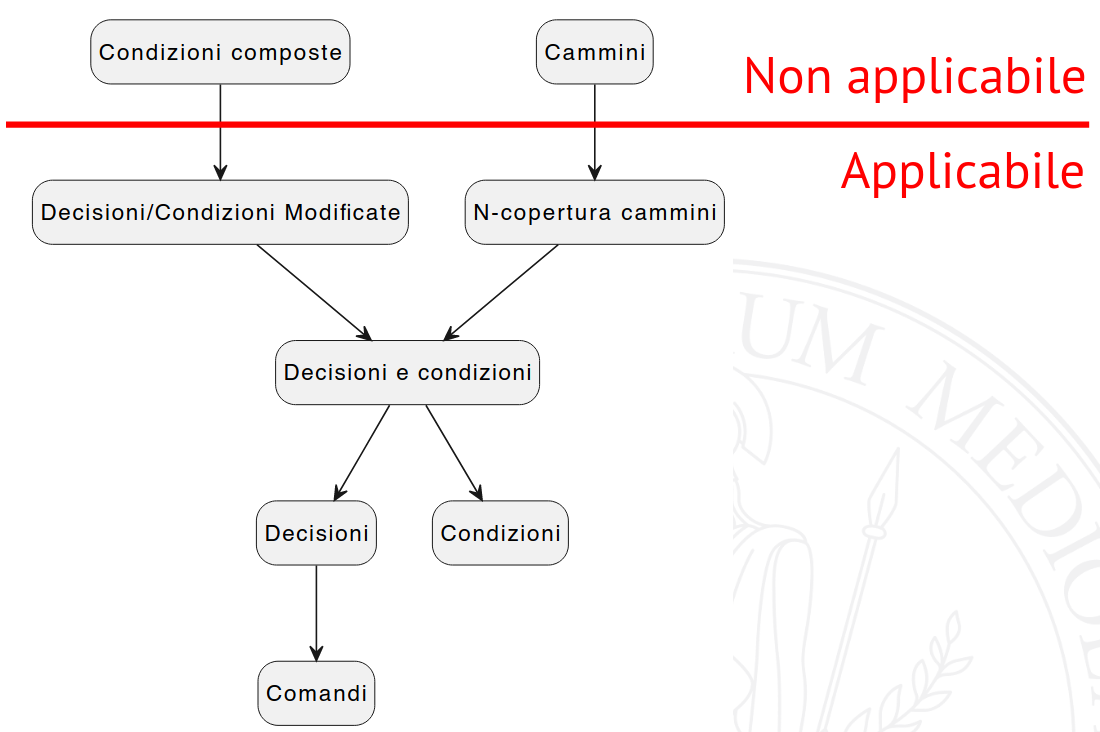
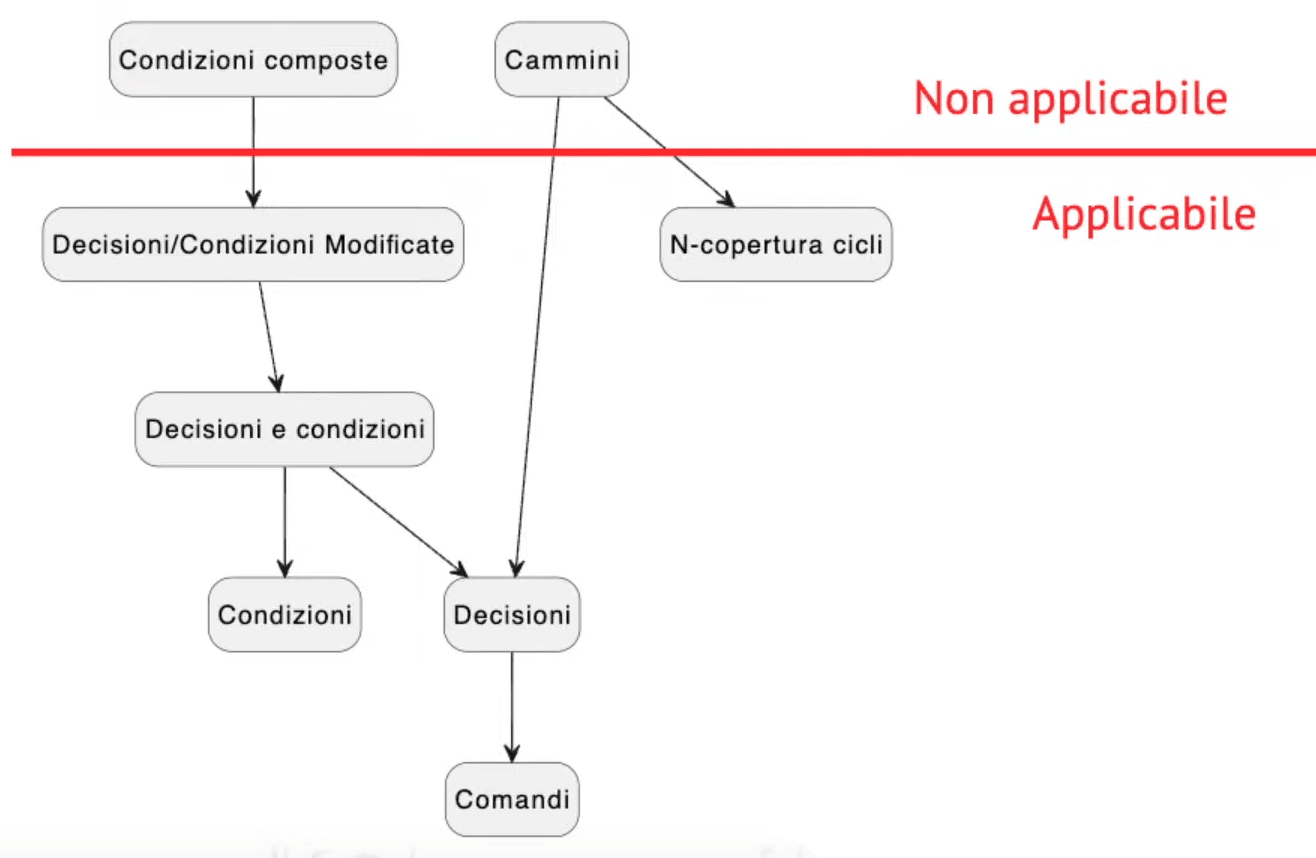
fix lezione 18, coperture

diff --git a/src/12_testing/02_proprieta.md b/src/12_testing/02_proprieta.md
@@ -50,7 +50,7 @@ Tuttavia, lo stesso non si può dire di un qualunque programma \\(P\\) in quanto
 L'obiettivo sarebbe quindi quello di trovare un _criterio valido e affidabile_ sempre.
 Tuttavia ciò è purtroppo impossibile in quanto un criterio di questo tipo selezionerebbe test ideali, che sappiamo non esistere.
 
-Immaginiamo infatti di avere un _criterio valido e affidabile_ e che un test selezionato da esso __non abbia successo__.
+Immaginiamo infatti di avere un _criterio valido e affidabile_ e che esista un test selezionato da esso che __non ha successo__.
 Sapendo che:
 
 - non avendo successo allora non sono stati trovati errori,
@@ -62,7 +62,7 @@ Esiste quindi un altro modo per implicare la correttezza di un programma:
 
 $$
 \boxed{
-    \operatorname{affidabile}(C, \\, P) \land \operatorname{valido}(C, \\, P) \land T \in C \land \lnot\operatorname{successo}(T, \\, P)
+    \operatorname{affidabile}(C, \\, P) \land \operatorname{valido}(C, \\, P) \land \exists T \in C \land \lnot\operatorname{successo}(T, \\, P)
     \Longrightarrow
     \operatorname{ok}(P, \\, D)
 }

diff --git a/src/12_testing/05_altri-criteri/02_cicli.md b/src/12_testing/05_altri-criteri/02_cicli.md
@@ -1,6 +1,6 @@
 # Criterio di \\(n\\)-copertura dei cicli
 
-_Un test \\(\ T\\) soddisfa il __criterio di \\(\bf{\it{n}}\\)-copertura__ se e solo se ogni cammino del grafo contenente al massimo un numero d'iterazioni di ogni ciclo non superiore a \\(n\\) viene percorso per almeno un caso di test \\(\ t \in T\\)._
+_Un test \\(\ T\\) soddisfa il __criterio di \\(\bf{\it{n}}\\)-copertura__ se e solo se per ogni ciclo abbiamo che viene eseguito 0,1,...,n volte per almeno un caso di test \\(\ t \in T\\)._
 
 La definizione sopra non significa che il test deve eseguire \\(n\\) volte un ciclo, ma che per ogni numero \\(k\\) compreso tra 0 e \\(n\\) deve esistere un caso di test che esegue tale ciclo \\(k\\) volte.
 Si sta quindi __limitando il numero massimo di percorrenze__ dei cicli. \
